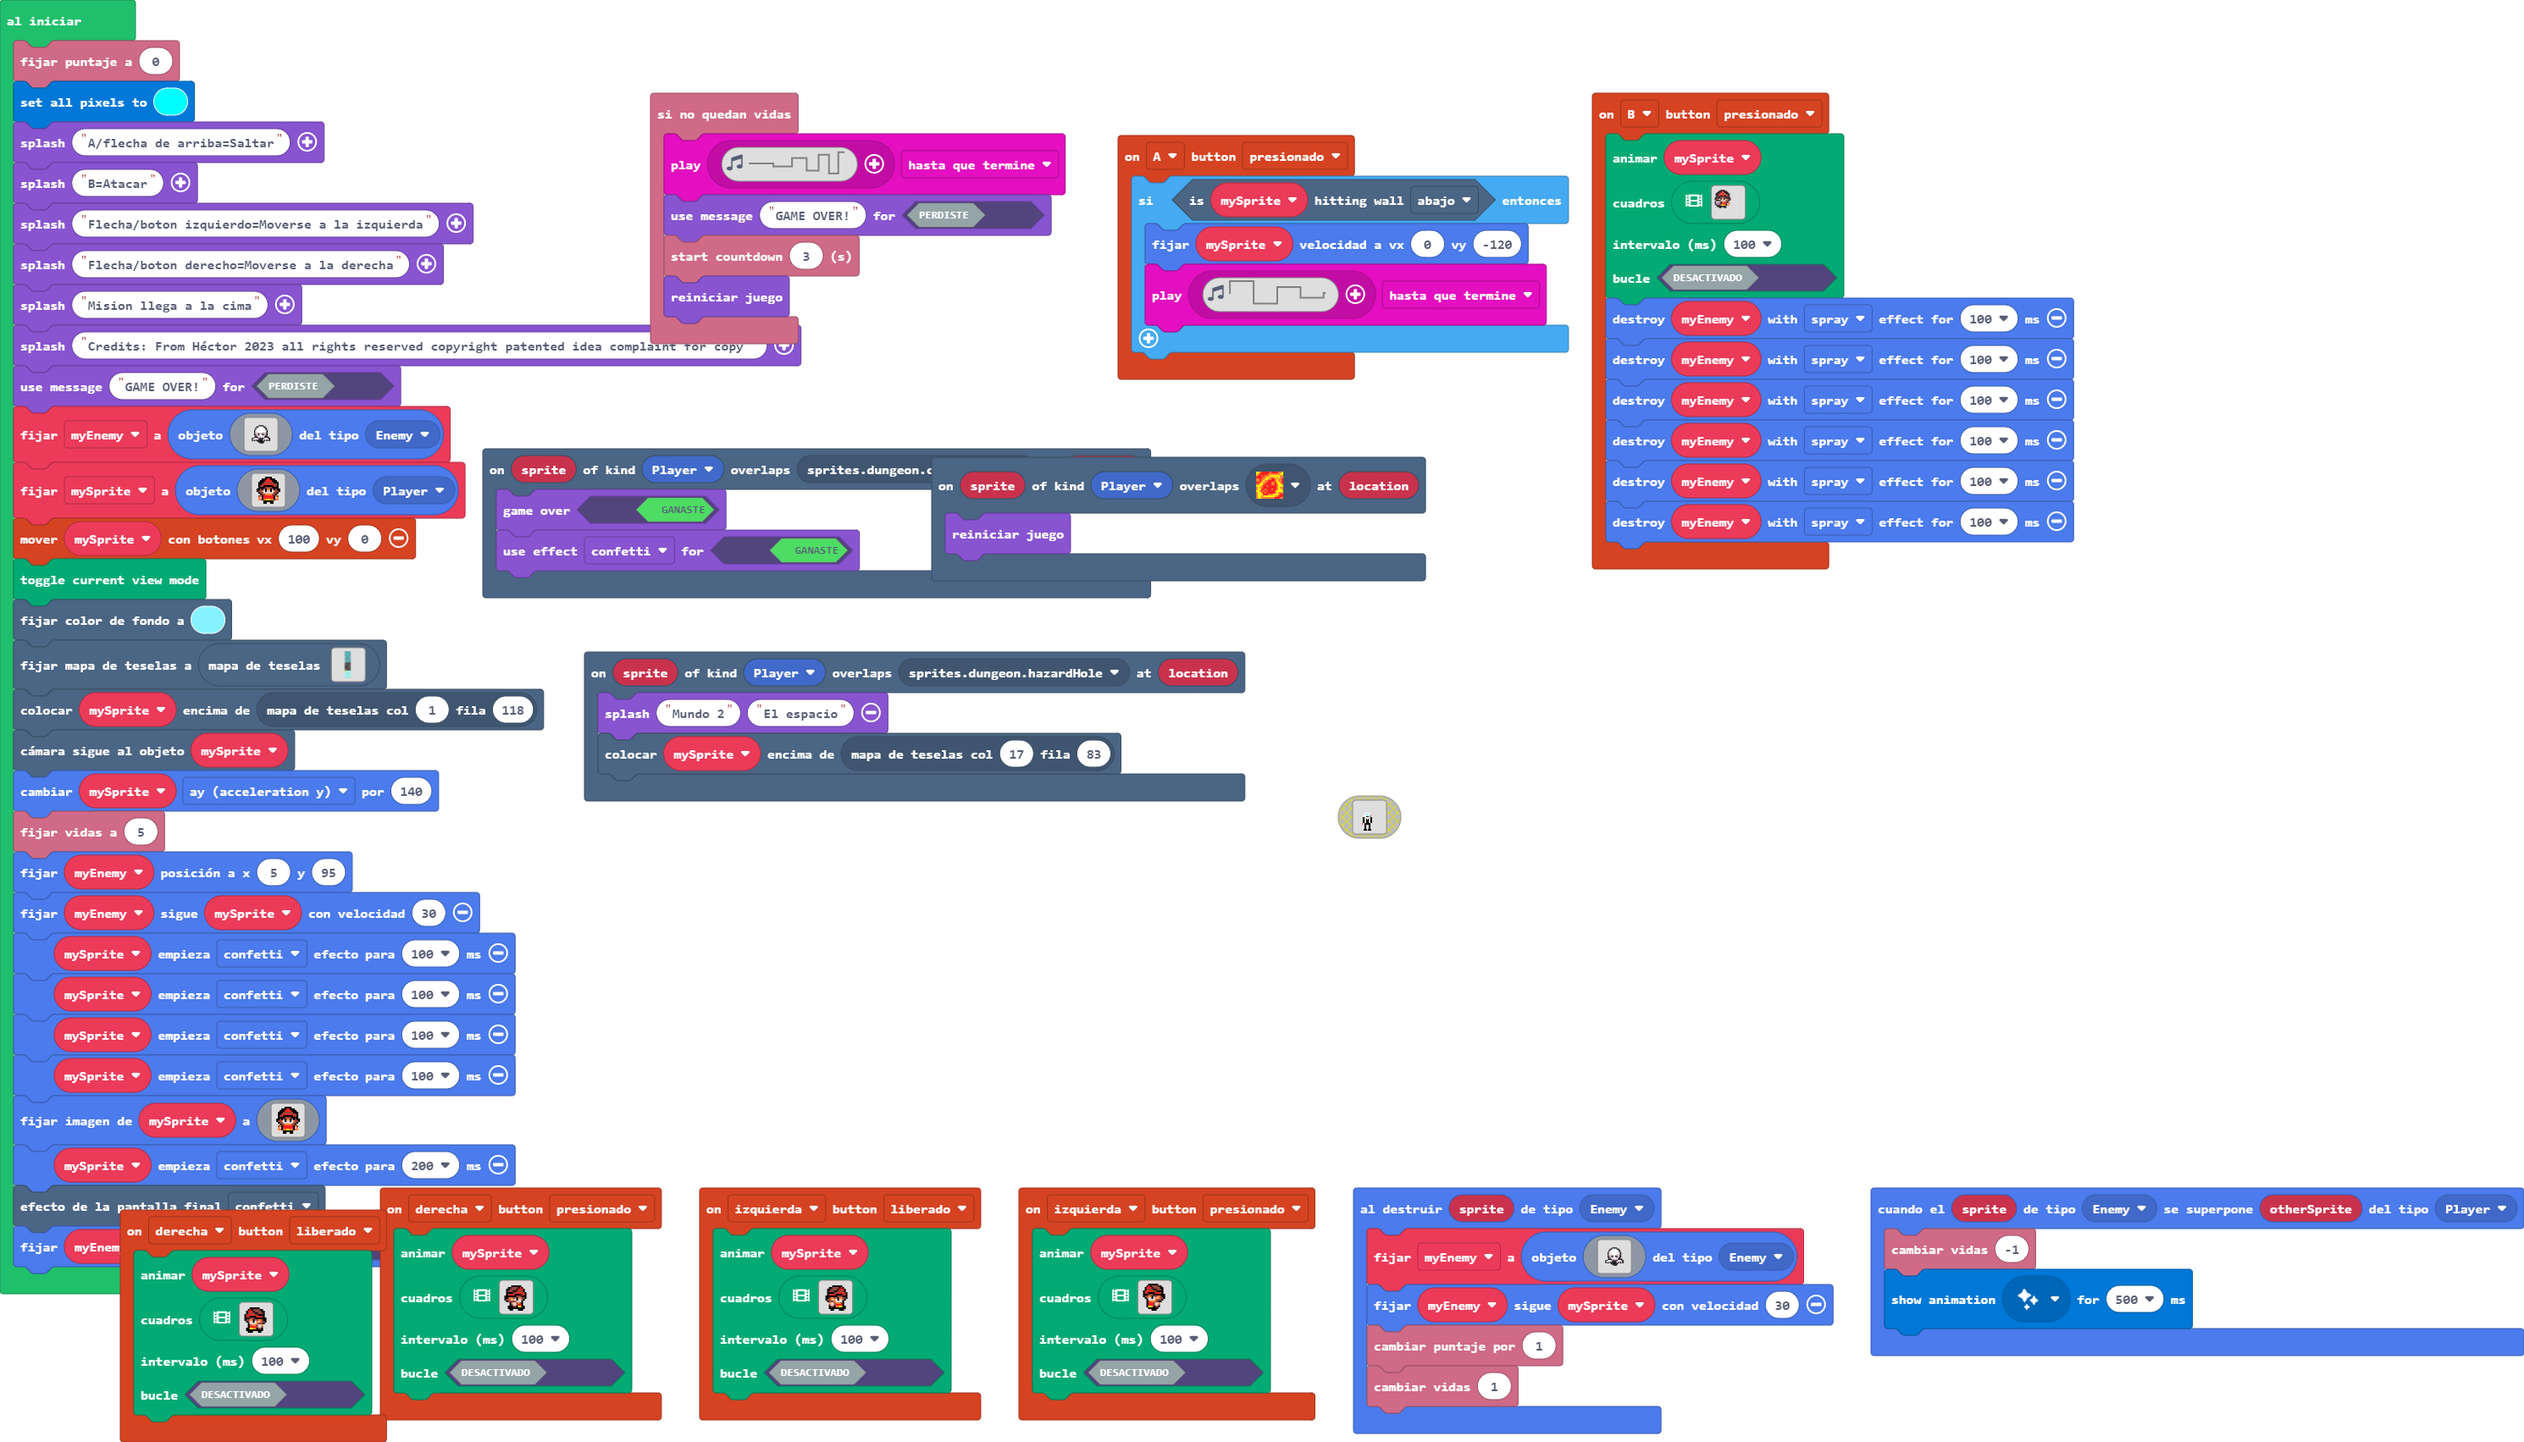
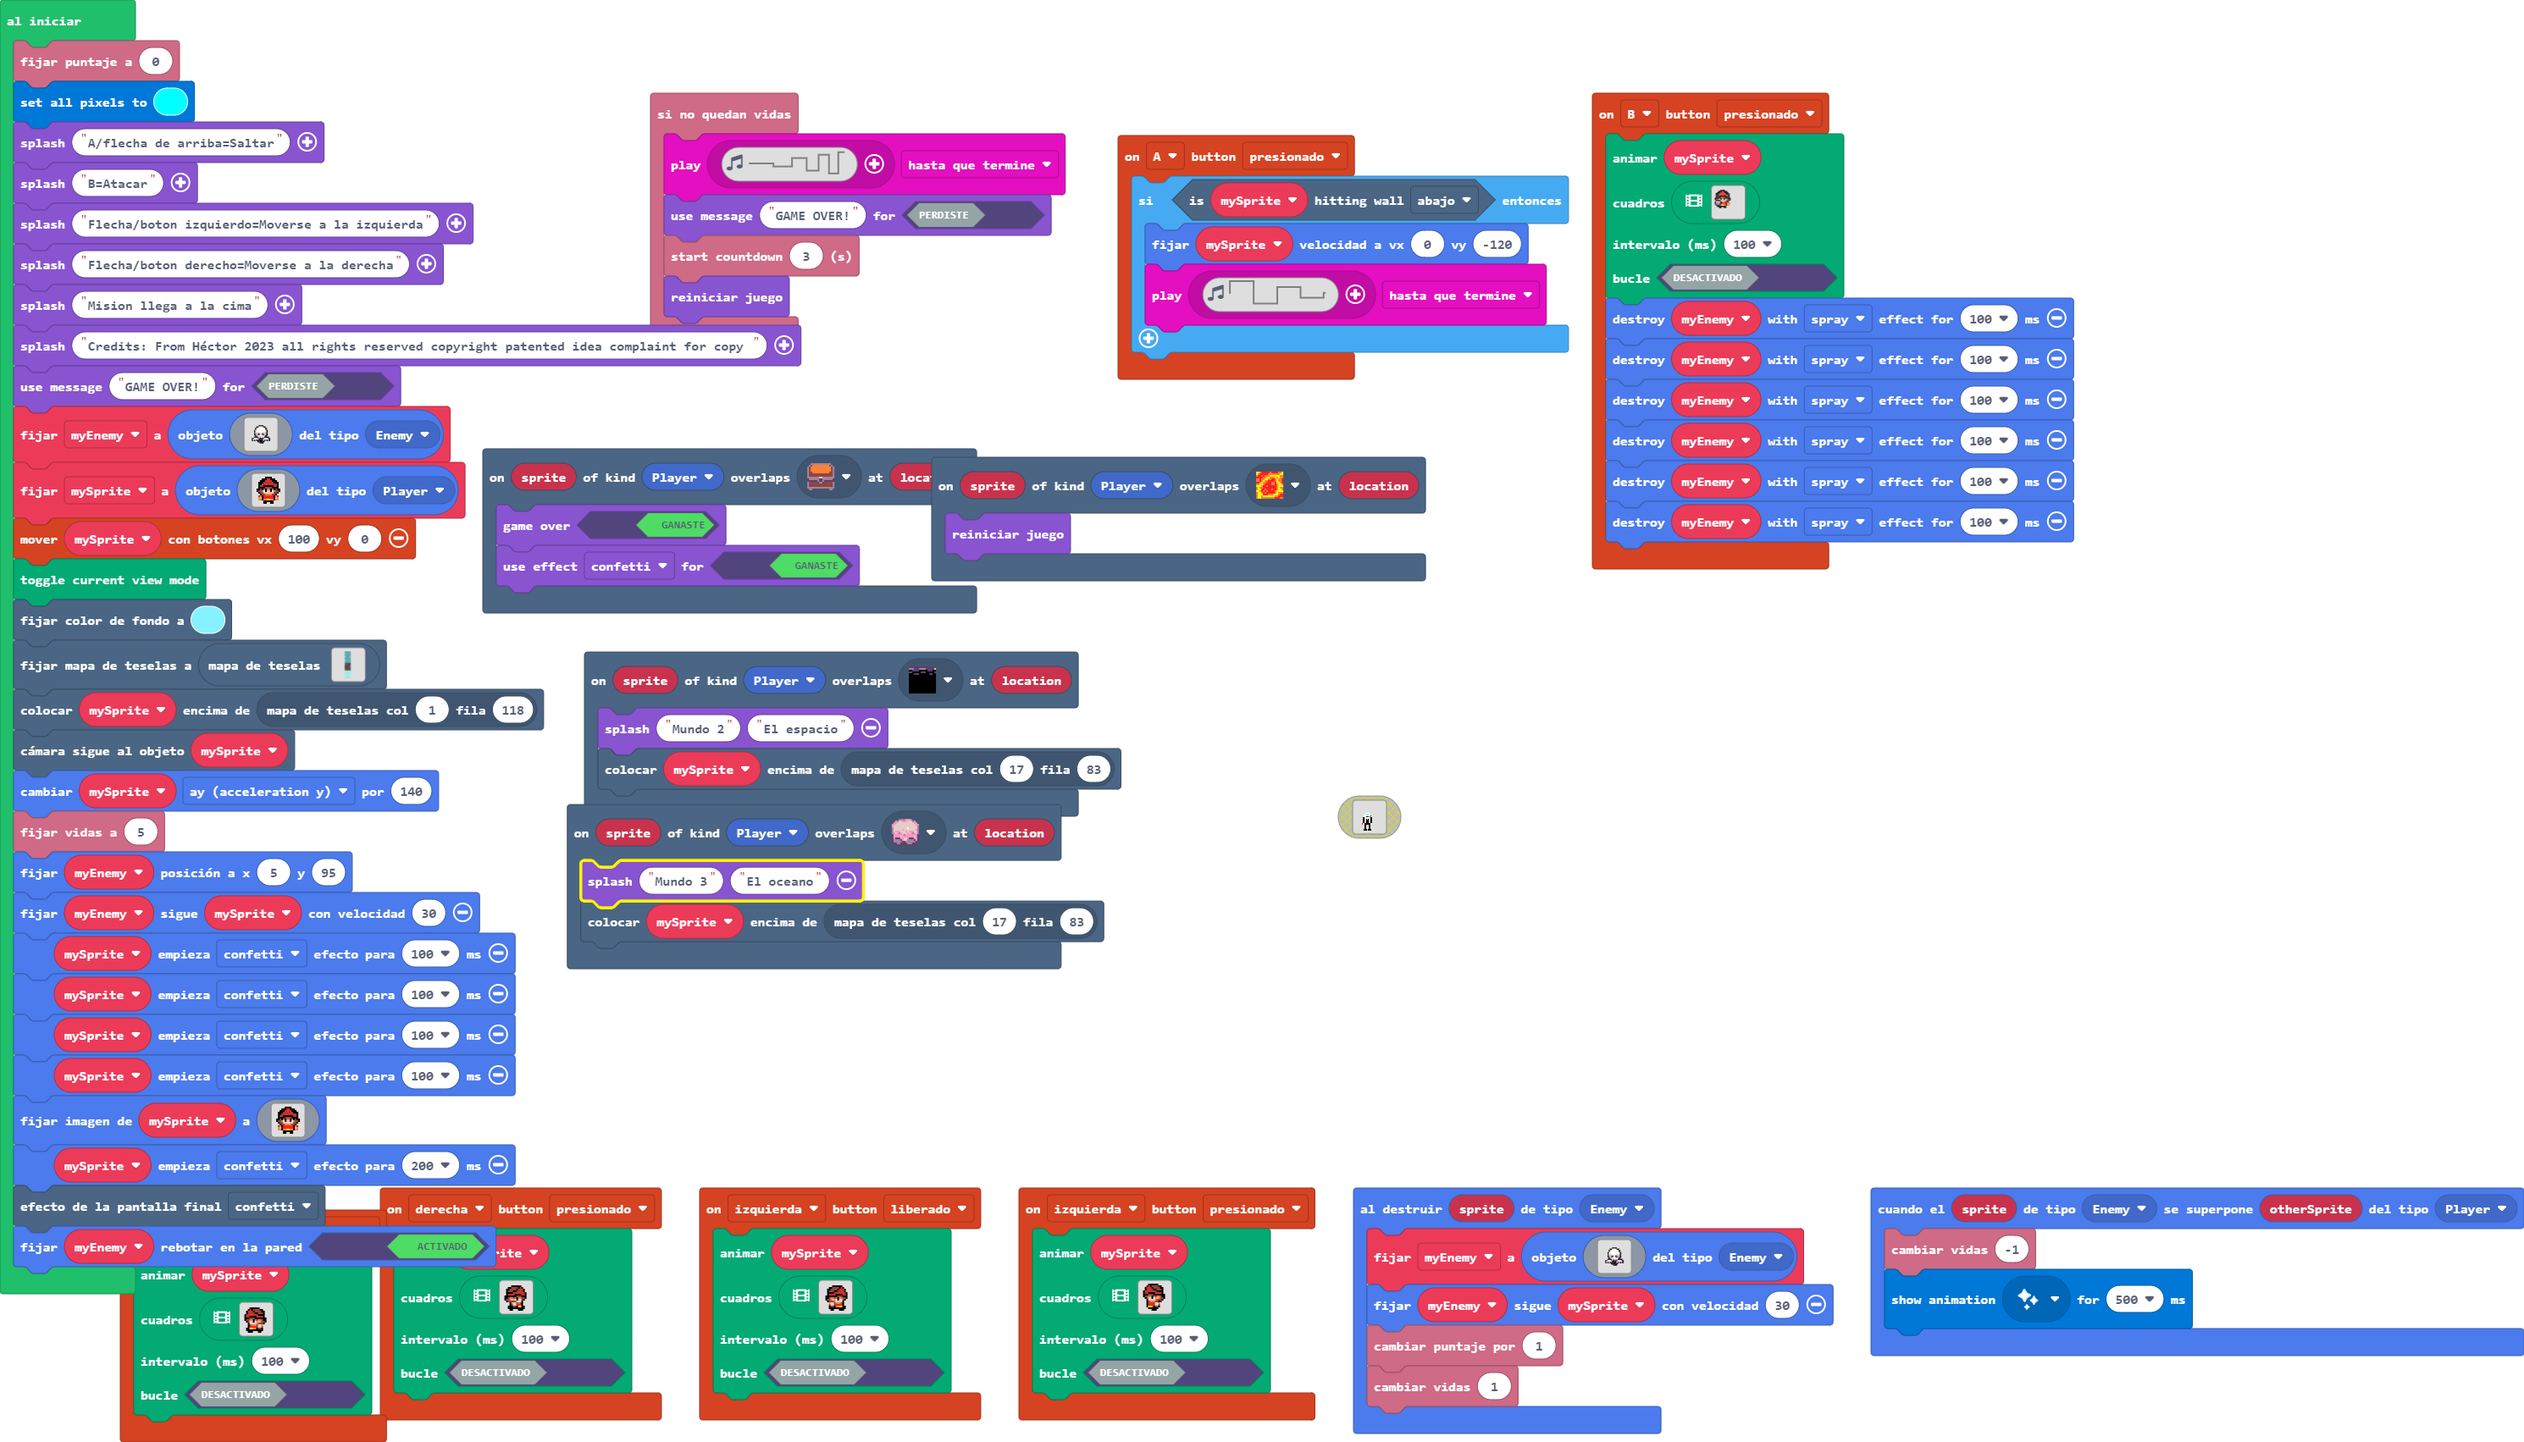
Actualizar main.blocks, main.ts, tilemap.g.jres, tilemap.g.ts

Changed region(s): [[0.1872, 0.3112, 0.4993, 0.6847], [0.0312, 0.8403, 0.2185, 0.9025], [0.2497, 0.2179, 0.3121, 0.249]]

diff --git a/tilemap.g.ts b/tilemap.g.ts
@@ -179,8 +179,46 @@ namespace myTiles {
 . . . . . . . . . . . . . . . . 
 . . . . . . . . . . . . . . . . 
 `, [myTiles.transparency16], TileScale.Sixteen);
+            case "nivel10":
+            case "nivel10":return tiles.createTilemap(hex`1000100000000000000000000000000000000000000000000000000000000000000000000000000000000000000000000000000000000000000000000000000000000000000000000000000000000000000000000000000000000000000000000000000000000000000000000000000000000000000000000000000000000000000000000000000000000000000000000000000000000000000000000000000000000000000000000000000000000000000000000000000000000000000000000000000000000000000000000000000000000000000000000000000000000000000000000000000000000000000000000000000000000000000000000000000000000000`, img`
+. . . . . . . . . . . . . . . . 
+. . . . . . . . . . . . . . . . 
+. . . . . . . . . . . . . . . . 
+. . . . . . . . . . . . . . . . 
+. . . . . . . . . . . . . . . . 
+. . . . . . . . . . . . . . . . 
+. . . . . . . . . . . . . . . . 
+. . . . . . . . . . . . . . . . 
+. . . . . . . . . . . . . . . . 
+. . . . . . . . . . . . . . . . 
+. . . . . . . . . . . . . . . . 
+. . . . . . . . . . . . . . . . 
+. . . . . . . . . . . . . . . . 
+. . . . . . . . . . . . . . . . 
+. . . . . . . . . . . . . . . . 
+. . . . . . . . . . . . . . . . 
+`, [myTiles.transparency16], TileScale.Sixteen);
+            case "nivel11":
+            case "nivel11":return tiles.createTilemap(hex`1000100000000000000000000000000000000000000000000000000000000000000000000000000000000000000000000000000000000000000000000000000000000000000000000000000000000000000000000000000000000000000000000000000000000000000000000000000000000000000000000000000000000000000000000000000000000000000000000000000000000000000000000000000000000000000000000000000000000000000000000000000000000000000000000000000000000000000000000000000000000000000000000000000000000000000000000000000000000000000000000000000000000000000000000000000000000000`, img`
+. . . . . . . . . . . . . . . . 
+. . . . . . . . . . . . . . . . 
+. . . . . . . . . . . . . . . . 
+. . . . . . . . . . . . . . . . 
+. . . . . . . . . . . . . . . . 
+. . . . . . . . . . . . . . . . 
+. . . . . . . . . . . . . . . . 
+. . . . . . . . . . . . . . . . 
+. . . . . . . . . . . . . . . . 
+. . . . . . . . . . . . . . . . 
+. . . . . . . . . . . . . . . . 
+. . . . . . . . . . . . . . . . 
+. . . . . . . . . . . . . . . . 
+. . . . . . . . . . . . . . . . 
+. . . . . . . . . . . . . . . . 
+. . . . . . . . . . . . . . . . 
+`, [myTiles.transparency16], TileScale.Sixteen);
             case "nivel1":
[2 lines of base64/hex data omitted]
 ......2..................
 ....2....................
 .........................
@@ -232,7 +270,7 @@ namespace myTiles {
 ........................2
 ..........22.......2..22.
 ......22.......22........
-...2.....................
+.........................
 ....2.......22...........
 .....2.........22........
 .......2.................
@@ -301,26 +339,7 @@ namespace myTiles {
 .....22..................
 ..22.....................
 22.......................
-`, [myTiles.transparency16,sprites.dungeon.hazardLava0,myTiles.tile2,myTiles.tile3,sprites.castle.tileGrass1,myTiles.tile4,myTiles.tile5,myTiles.tile6,myTiles.tile7,myTiles.tile9,myTiles.tile10,myTiles.tile11,sprites.builtin.coral5,sprites.castle.tileGrass3,sprites.dungeon.chestClosed,sprites.dungeon.hazardHole], TileScale.Sixteen);
-            case "nivel10":
-            case "nivel10":return tiles.createTilemap(hex`1000100000000000000000000000000000000000000000000000000000000000000000000000000000000000000000000000000000000000000000000000000000000000000000000000000000000000000000000000000000000000000000000000000000000000000000000000000000000000000000000000000000000000000000000000000000000000000000000000000000000000000000000000000000000000000000000000000000000000000000000000000000000000000000000000000000000000000000000000000000000000000000000000000000000000000000000000000000000000000000000000000000000000000000000000000000000000`, img`
-. . . . . . . . . . . . . . . . 
-. . . . . . . . . . . . . . . . 
-. . . . . . . . . . . . . . . . 
-. . . . . . . . . . . . . . . . 
-. . . . . . . . . . . . . . . . 
-. . . . . . . . . . . . . . . . 
-. . . . . . . . . . . . . . . . 
-. . . . . . . . . . . . . . . . 
-. . . . . . . . . . . . . . . . 
-. . . . . . . . . . . . . . . . 
-. . . . . . . . . . . . . . . . 
-. . . . . . . . . . . . . . . . 
-. . . . . . . . . . . . . . . . 
-. . . . . . . . . . . . . . . . 
-. . . . . . . . . . . . . . . . 
-. . . . . . . . . . . . . . . . 
-`, [myTiles.transparency16], TileScale.Sixteen);
+`, [myTiles.transparency16,sprites.dungeon.hazardLava0,myTiles.tile2,myTiles.tile3,sprites.castle.tileGrass1,myTiles.tile4,myTiles.tile5,myTiles.tile6,myTiles.tile7,myTiles.tile9,myTiles.tile10,myTiles.tile11,sprites.builtin.coral5,sprites.castle.tileGrass3,sprites.dungeon.chestClosed,sprites.dungeon.hazardHole,sprites.builtin.oceanSand0], TileScale.Sixteen);
         }
         return null;
     })

diff --git a/main.ts b/main.ts
@@ -327,6 +327,10 @@ scene.onOverlapTile(SpriteKind.Player, sprites.dungeon.chestClosed, function (sp
     game.gameOver(true)
     game.setGameOverEffect(true, effects.confetti)
 })
+scene.onOverlapTile(SpriteKind.Player, sprites.builtin.oceanSand0, function (sprite, location) {
+    game.splash("Mundo 3", "El oceano")
+    tiles.placeOnTile(mySprite, tiles.getTileLocation(17, 83))
+})
 sprites.onOverlap(SpriteKind.Enemy, SpriteKind.Player, function (sprite, otherSprite) {
     info.changeLifeBy(-1)
     light.showAnimation(light.sparkleAnimation, 500)
